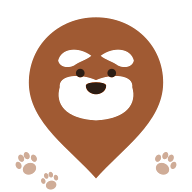
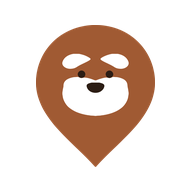
로고 벡터(SVG)로 다시 그려 전체 반영·앱 아이콘 교체, 안드로이드 앱 0.1.7(펫츠로드 이름·새 아이콘), 공원 관리번호 중복으로 빠진 공원 642곳 복구(두류공원 공원 마커), 지도 목록 패널 제목 줄 끌기, 휴대폰 커뮤니티 전체 스크롤, 숙소 현장 추가 요금 없음 표시, DB 보안 경고 정리 SQL

diff --git a/src/components/KakaoMap.tsx b/src/components/KakaoMap.tsx
@@ -726,9 +726,12 @@ export default function KakaoMap() {
     setShowRecommendPanel(false);
     setShowRoutePanel(false);
   };
+  // 손잡이뿐 아니라 패널 제목 줄을 잡고 끌어도 올라오게 합니다(2026-11-09 — 손잡이가 작아 잘 안 잡혔음).
+  // 제목 줄 안의 버튼·입력칸을 누른 것은 끌기로 보지 않아 그 버튼은 그대로 눌립니다.
   const onSheetPointerDown = (e: React.PointerEvent) => {
+    if ((e.target as HTMLElement).closest("button, a, input, select, textarea, [data-no-sheet-drag]") && e.target !== e.currentTarget) return;
     sheetDragRef.current = { startY: e.clientY, startPx: sheetPx, moved: false };
-    (e.currentTarget as HTMLElement).setPointerCapture(e.pointerId);
+    try { (e.currentTarget as HTMLElement).setPointerCapture(e.pointerId); } catch { /* 이미 끝난 포인터 */ }
   };
   const onSheetPointerMove = (e: React.PointerEvent) => {
     const d = sheetDragRef.current;
@@ -788,17 +791,20 @@ export default function KakaoMap() {
     boxSizing: "border-box",
     transition: sheetDragPx == null ? "height 0.25s ease" : "none",
   });
+  const sheetDragProps = {
+    onPointerDown: onSheetPointerDown,
+    onPointerMove: onSheetPointerMove,
+    onPointerUp: onSheetPointerUp,
+    onPointerCancel: () => { sheetDragRef.current = null; setSheetDragPx(null); },
+  };
   const renderSheetHandle = () => (
     <div
-      onPointerDown={onSheetPointerDown}
-      onPointerMove={onSheetPointerMove}
-      onPointerUp={onSheetPointerUp}
-      onPointerCancel={() => { sheetDragRef.current = null; setSheetDragPx(null); }}
+      {...sheetDragProps}
       role="button"
       aria-label={sheetSnap === "full" ? "목록 줄이기" : "목록 더 보기"}
       title={sheetClosable ? "끌어서 크기 조절 · 끝까지 내리면 닫혀요" : "끌어서 크기 조절"}
       style={{
-        position: "sticky", top: 0, zIndex: 3, height: 22, background: "white",
+        position: "sticky", top: 0, zIndex: 3, height: 28, background: "white",
         display: "flex", alignItems: "center", justifyContent: "center",
         touchAction: "none", cursor: "grab",
       }}
@@ -4285,7 +4291,9 @@ const courseMeta = (route: RouteResult) => ({
       >
         {isNarrowScreen && renderSheetHandle()}
         <div
+          {...(isNarrowScreen ? sheetDragProps : {})}
           style={{
+            ...(isNarrowScreen ? { touchAction: "none" as const } : {}),
             display: "flex",
             alignItems: "center",
             justifyContent: "space-between",

diff --git a/src/lib/server/parksSync.ts b/src/lib/server/parksSync.ts
@@ -91,6 +91,20 @@ export async function syncParks(): Promise<{ fetched: number; upserted: number }
     await sleep(200);
   }
 
+  // 관리번호(manageNo)는 전국에서 하나뿐인 번호가 아닙니다 — 관리 기관이 다르면 같은 번호를 씁니다
+  // (예: 대구 "두류공원"(두류공원관리사무소)과 "한빛어린이공원"(달서구청)이 둘 다 27290-00179).
+  // 예전에는 번호만 보고 같은 공원으로 여겨 두류공원 같은 큰 공원이 빠졌습니다(2026-11-09 수정).
+  // 이미 저장된 공원은 번호(=장소 번호)가 바뀌지 않게 원래 키를 그대로 쓰고,
+  // 같은 번호에 이름이 다른 공원만 "번호|이름" 키로 따로 저장합니다.
+  const existingName = new Map<string, string>();
+  for (let from = 0; ; from += 1000) {
+    const { data, error } = await supabase.from("parks").select("source_key, name").range(from, from + 999);
+    if (error) throw new Error(`기존 공원 목록 읽기 실패: ${error.message}`);
+    for (const r of data ?? []) existingName.set(r.source_key, r.name);
+    if (!data || data.length < 1000) break;
+  }
+  const plainOwner = new Map<string, string>(); // 이번 동기화에서 원래 키를 차지한 공원 이름
+
   const seen = new Set<string>();
   const rows: any[] = [];
   for (const item of all) {
@@ -101,12 +115,17 @@ export async function syncParks(): Promise<{ fetched: number; upserted: number }
     if (!name || !Number.isFinite(latNum) || !Number.isFinite(lngNum) || (latNum === 0 && lngNum === 0)) continue;
     const manageNo = pick(item, "manageNo", "MANAGE_NO").trim();
     const address = pick(item, "rdnmadr", "RDNMADR", "lnmadr", "LNMADR").trim();
-    const dedupe = manageNo || `${name}|${address}`;
-    if (seen.has(dedupe)) continue;
-    seen.add(dedupe);
+    const base = `park-${manageNo || `${name}|${address}`}`;
+    const stored = existingName.get(base);
+    const owner = plainOwner.get(base);
+    const takesPlain = stored ? stored === name : (owner === undefined || owner === name);
+    const sourceKey = takesPlain ? base : `${base}|${name}`;
+    if (takesPlain) plainOwner.set(base, name);
+    if (seen.has(sourceKey)) continue;
+    seen.add(sourceKey);
     const parkAr = pick(item, "parkAr", "PARK_AR");
     rows.push({
-      source_key: `park-${dedupe}`,
+      source_key: sourceKey,
       name,
       category: pick(item, "parkSe", "PARK_SE").trim() || "공원",
       address,

diff --git a/src/app/community/CommunityClient.tsx b/src/app/community/CommunityClient.tsx
@@ -345,7 +345,13 @@ export default function CommunityClient({ initial = null }: { initial?: Communit
       >
         <AdRailLeft />
 
+        {/* 휴대폰: 쇼핑·입양 탭처럼 화면 전체가 함께 스크롤(머리말·게시판 고르기가 위에 고정되지 않게) — 2026-11-09 */}
+        <style>{`@media (max-width: 767px) {
+          .ggk-cm-shell { height: auto !important; overflow: visible !important; }
+          .ggk-cm-feed { flex: none !important; overflow: visible !important; }
+        }`}</style>
         <div
+          className="ggk-cm-shell"
           style={{
             // 가운데 칸 고정 — 좌우 광고 레일은 좁은 화면에서 display:none이라 칸을 차지하지 않아, 지정하지 않으면
             // 본문이 폭 0px인 첫 칸으로 밀려 휴대폰에서 화면이 텅 비어 보였습니다.
@@ -773,6 +779,7 @@ export default function CommunityClient({ initial = null }: { initial?: Communit
               메인 피드(main-col)와 광고 사이드바(side-col)를 한 컨테이너 안에서
               나란히 배치합니다 (기존엔 컨테이너 바깥 좌우에 별도 광고바가 있었습니다). */}
           <div
+            className="ggk-cm-feed"
             style={{
               flex: 1,
               padding: "16px 28px 0px",

diff --git a/src/components/brand/BrandLogo.tsx b/src/components/brand/BrandLogo.tsx
@@ -1,12 +1,13 @@
 // 펫츠로드 로고 — 모든 화면이 이 부품 하나로 로고를 그립니다(핀 그림 + 구기 글꼴 글자를 한 장으로 합친 그림).
-// ⚠ 로고를 바꿀 때는 그림 파일만 새 이름(…_v3.png 등)으로 올리고 아래 LOGO_SRC만 고치세요.
+// 2026-11-09: 그림 파일(PNG)을 벡터(SVG)로 다시 그려 확대해도 깨지지 않습니다. 핀 그림만 쓰는 곳은 /icons/logo_mark.svg.
+// ⚠ 로고를 바꿀 때는 그림 파일만 새 이름(…_v4.svg 등)으로 올리고 아래 LOGO_SRC만 고치세요.
 //    같은 이름으로 덮어쓰면 브라우저·이미지 서버(CDN)가 예전 그림을 계속 보여 줍니다(2026-11-06 실제로 예전 글꼴이 보였음).
 //    화면 코드에서 그림 주소를 직접 쓰지 않도록 src/lib/brandLogo.test.ts가 검사합니다.
 
 /* eslint-disable @next/next/no-img-element */
-export const LOGO_SRC = "/icons/petsroad_logo_v2.png";
+export const LOGO_SRC = "/icons/petsroad_logo_v3.svg";
 /** 그림 원본 크기(가로·세로 비율 계산용) */
-export const LOGO_W = 721, LOGO_H = 231;
+export const LOGO_W = 558, LOGO_H = 168;
 
 export default function BrandLogo({ height = 28, style }: { height?: number; style?: React.CSSProperties }) {
   return (

diff --git a/src/app/stay/StayClient.tsx b/src/app/stay/StayClient.tsx
@@ -193,7 +193,7 @@ export default function StayClient({ initial = null }: { initial?: Stay[] | null
             {bookable.length > 0 && (
               <section style={{ marginTop: 30 }}>
                 <h2 className="ggk-logo" style={{ margin: 0, fontSize: 20, fontWeight: 800, color: INK }}>펫츠로드에서 바로 예약</h2>
-                <div style={{ fontSize: 14, color: SUB, marginTop: 4 }}>날짜를 고르고 반려동물 정보만 적으면 예약 끝.</div>
+                <div style={{ fontSize: 14, color: SUB, marginTop: 4, lineHeight: 1.6 }}>날짜를 고르고 반려동물 정보만 적으면 예약 끝.<br />추가 요금까지 한 번에 결제, <b style={{ color: INK }}>현장 결제 없음</b></div>
                 <div className="stay-picks" style={{ marginTop: 18 }}>
                   {(showAllPicks ? bookable : bookable.slice(0, PICKS)).map((s) => (
                     <button key={s.id} data-guide="stay-card" onClick={() => open(s)} style={{ minWidth: 0, display: "flex", flexDirection: "column", justifyContent: "flex-start", padding: 0, border: `1px solid ${LINE}`, borderRadius: 14, overflow: "hidden", background: "white", cursor: "pointer", textAlign: "left", fontFamily: "inherit", color: INK }}>

diff --git a/src/app/stay/[id]/StayDetailClient.tsx b/src/app/stay/[id]/StayDetailClient.tsx
@@ -137,6 +137,8 @@ export default function StayDetailClient({ place, profile, rooms }: { place: Sta
             {place.category && <span style={tag}>{place.category}</span>}
             {place.premium && <span style={{ ...tag, background: "#FEF3C7", color: "#92400E", display: "inline-flex", alignItems: "center", gap: 3 }}><Crown size={11} />PREMIUM</span>}
             <span style={{ ...tag, background: BLUE, color: "white" }}>펫츠로드 바로 예약</span>
+            {/* 반려동물·추가 인원 요금까지 예약할 때 모두 결제 → 현장에서 따로 내지 않음(2026-11-08) */}
+            <span title="반려동물·추가 인원 요금까지 예약할 때 모두 결제해요" style={{ ...tag, background: "white", color: BLUE, border: `1px solid ${BLUE}`, padding: "3px 8px" }}>현장 추가 요금 없음</span>
           </div>
           <h1 className="ggk-logo" style={{ margin: "8px 0 0", fontSize: 23, fontWeight: 800, color: "#222", lineHeight: 1.35 }}>{place.name}</h1>
           <button onClick={() => jump("stay-reviews")} style={{ marginTop: 6, padding: 0, border: "none", background: "transparent", cursor: "pointer", display: "flex", alignItems: "center", gap: 6, fontFamily: "inherit" }}>

diff --git a/src/lib/parkDuplicates.ts b/src/lib/parkDuplicates.ts
@@ -7,7 +7,8 @@
 //   · 이름이 같다. 띄어쓰기·괄호는 무시하고, "근린공원"·"어린이공원" 같은 종류 말도 떼고 비교합니다
 //     (예: "가수원근린공원" ↔ "가수원", "구평근린공원" ↔ "구평 근린공원").
 //   · 서로 1.5km 안에 있다(넓은 공원은 출처마다 찍은 지점이 달라서 여유를 둡니다).
-// 공원 데이터에 없는 공원(예: 대구 두류공원)은 겹치는 것이 없으므로 그대로 남습니다.
+// 공원 데이터에 없는 공원은 겹치는 것이 없으므로 그대로 남습니다.
+// (두류공원은 원래 공원 데이터에 있었는데 관리번호 중복으로 저장 때 빠졌던 것 — parksSync.ts 2026-11-09 수정)
 
 export type GeoNamed = { id: number | string; name: string; lat: number | string; lng: number | string };
 

diff --git a/src/app/layout.tsx b/src/app/layout.tsx
@@ -88,7 +88,7 @@ export default function RootLayout({
           }}
         />
         {/* 불러오는 화면의 로고 그림 — 화면이 그려지자마자 보이도록 미리 받습니다. */}
-        <link rel="preload" as="image" href="/icons/logo_mark.png" />
+        <link rel="preload" as="image" href="/icons/logo_mark.svg" />
         {/* ⚠ 속도("지도 먼저"): 지도 엔진(카카오맵)을 다른 코드보다 먼저 받고, 지도 화면으로 들어온 경우에는 엔진이
             준비되는 즉시 지도부터 그립니다 — 화면의 나머지 코드(검색·목록·버튼 등)가 준비되기를 기다리지 않습니다.
             지난번 위치가 저장돼 있으면 그곳, 없으면 서울시청이 가운데입니다. 이렇게 먼저 만든 지도는 KakaoMap.tsx의

diff --git a/src/components/illustrations/PetIllustration.tsx b/src/components/illustrations/PetIllustration.tsx
@@ -1,12 +1,12 @@
 "use client";
 
 // 펫츠로드 로고 그림(핀 속 슈나우저) — 빈 화면("아직 찜한 장소가 없어요" 등)에 쓰는 작은 그림입니다.
-// 앱 아이콘·헤더 로고·공유 그림과 같은 핀 로고 하나로 통일했습니다(public/icons/logo_mark.png).
+// 앱 아이콘·헤더 로고·공유 그림과 같은 핀 로고 하나로 통일했습니다(public/icons/logo_mark.svg).
 // 예전의 손그림 슈나우저 두 마리 그림은 더 이상 쓰지 않습니다.
 
 type Variant = "empty" | "hero" | "success" | "search" | "header";
 
-const MARK_SRC = "/icons/logo_mark.png";
+const MARK_SRC = "/icons/logo_mark.svg"; // 벡터 — 확대해도 깨지지 않음(2026-11-09)
 /** 그림의 가로:세로 비율(304×360) */
 const MARK_RATIO = 360 / 304;
 

diff --git a/src/lib/brandLogo.test.ts b/src/lib/brandLogo.test.ts
@@ -23,7 +23,7 @@ describe("로고 고정", () => {
     expect(existsSync(join(process.cwd(), "public", LOGO_SRC))).toBe(true);
   });
   it("로고 그림 주소는 BrandLogo에서만 쓴다", () => {
-    const offenders = all.filter((f) => f.path !== "components/brand/BrandLogo.tsx" && /petsroad_(lockup|logo)\w*\.png/.test(f.text)).map((f) => f.path);
+    const offenders = all.filter((f) => f.path !== "components/brand/BrandLogo.tsx" && /petsroad_(lockup|logo)\w*\.(png|svg)/.test(f.text)).map((f) => f.path);
     expect(offenders).toEqual([]);
   });
 });

diff --git a/src/components/LogoLoader.tsx b/src/components/LogoLoader.tsx
@@ -5,7 +5,7 @@
 // 예전에는 "불러오는 중..." 글자만 있거나 회색 뼈대 화면이었습니다.
 // (움직임을 줄이도록 설정한 기기에서는 튀지 않고 가만히 있습니다.)
 
-const MARK_SRC = "/icons/logo_mark.png";
+const MARK_SRC = "/icons/logo_mark.svg"; // 벡터 — 확대해도 깨지지 않음(2026-11-09)
 
 export default function LogoLoader({
   label = "불러오는 중…",

diff --git a/README.md b/README.md
@@ -1270,6 +1270,27 @@
   + 법률 AI 검토 결과 반영(나이 확인 방식, 처리방침 문구)
 <br>
 
+[2026.11.09]
+
+- 오늘 한 일
+  + 로고를 벡터(SVG)로 다시 그림 — 확대해도 깨지지 않음. 헤더·소개·마이페이지·관리자·가입 화면 등 모든 로고(BrandLogo)와 핀 그림(로딩·빈 화면)에 반영
+  + 앱 아이콘 새로 만들기 : 사이트 아이콘·홈 화면 아이콘·알림 아이콘·안드로이드 실행 아이콘(발자국 없는 새 핀 로고, 흰 바탕)·시작 화면, 안드로이드 아이콘 바탕 크림색 → 흰색
+  + 안드로이드 앱 0.1.7 : 이름 "펫츠로드", 새 아이콘, 앱 안 웹 정보 이름 정리, 파일 이름 petsroad-0.1.7.apk
+  + 공원 데이터 누락 수정 : 관리번호가 기관마다 겹쳐(예: 두류공원·한빛어린이공원 둘 다 27290-00179) 큰 공원이 저장 때 빠지던 문제 — 같은 번호라도 이름이 다르면 따로 저장(기존 공원 번호는 유지), 빠졌던 공원 642곳 복구 → 두류공원이 공원 마커로, 겹치는 일반 장소는 숨김
+  + 휴대폰 지도 목록 패널 : 손잡이뿐 아니라 "주변 장소" 제목 줄을 잡고 끌어도 올라오게, 손잡이 높이 키움
+  + 휴대폰 커뮤니티 : 쇼핑·입양 탭처럼 화면 전체가 함께 스크롤(머리말·게시판 고르기가 위에 고정되지 않게)
+  + 숙소 "현장 추가 요금 없음" 표시(숙소 화면 배지, 바로 예약 안내 문구)
+  + DB 보안 경고 정리 SQL(scripts/sql/security-cleanup.sql — 함수 설정 고정, 화면에서 부를 필요 없는 함수 권한 회수, 실행 완료)
+  + 유료 구매 목록·구매 후 할 일 문서, 사업 제안서 PDF(docs, 저장소에 올리지 않음)
+
+- 오늘 못한 일
+  + 새 안드로이드 앱 휴대폰 설치 확인
+  + 예약·주문 이메일 알림(메일 발송 서비스 결정 필요)
+
+- 내일 할 일
+  + 새 앱 설치 후 아이콘·이름 확인, 예약·주문 이메일 알림
+<br>
+
 [2026.11.08]
 
 - 오늘 한 일
